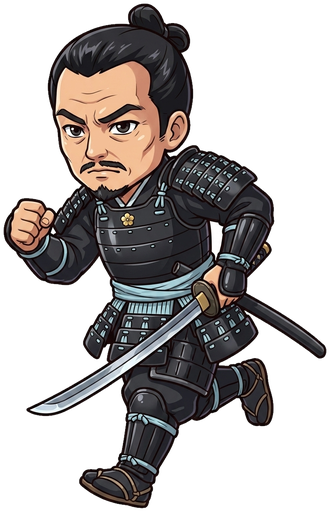
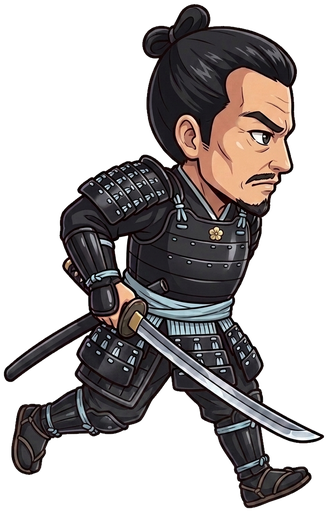
v3.1 二段ジャンプ標準化+足軽の踏みつけ討取を復活+走り/跳躍スプライトを右向きに統一(反転処理)
- タップ/スペース=二段ジャンプ、時は今で空中3段
- 足軽は上から踏めば討取(跳ね返り+空中ジャンプ復活)、横からは討死
- 全ちびスプライトを進行方向(右)向きに統一

diff --git a/honnoji/index.html b/honnoji/index.html
@@ -32,6 +32,7 @@
     align-items:flex-start;pointer-events:none;color:#E8DFC8;text-shadow:0 2px 8px rgba(0,0,0,.7)}
   #dist{font-size:clamp(22px,4.5vmin,34px);letter-spacing:.06em;font-weight:600}
   #dist span{font-size:.6em;opacity:.75;margin-left:.1em}
+  #kills{font-size:clamp(12px,2.6vmin,17px);color:#C9A227;letter-spacing:.08em;margin-top:.15em;min-height:1.2em}
   #best{font-size:clamp(12px,2.4vmin,16px);color:#C9A227;letter-spacing:.08em;opacity:.85;margin-top:.4em;text-align:right}
   #place{position:absolute;top:38%;left:0;right:0;text-align:center;
     color:rgba(232,223,200,0);font-size:clamp(24px,6vmin,42px);letter-spacing:.35em;
@@ -72,14 +73,17 @@
 <div id="wrap">
   <canvas id="c"></canvas>
   <div id="hud">
-    <div id="dist">0 <span>歩</span></div>
+    <div>
+      <div id="dist">0 <span>歩</span></div>
+      <div id="kills"></div>
+    </div>
     <div id="best">最高 0</div>
   </div>
   <div id="place">亀山、発つ</div>
   <button id="skill">時は今</button>
   <div id="overlay">
     <div id="ttl">本能寺への道</div>
-    <div id="sub">タップ / スペースで跳ぶ<br>篝火と足軽を越えて、夜を駆けよ<br>秘技「時は今」で空中三段跳び ─ 千歩先の本能寺へ</div>
+    <div id="sub">タップ / スペースで跳ぶ(二段ジャンプ)<br>篝火は跳び越え、足軽は上から踏め<br>秘技「時は今」で空中三段跳び ─ 千歩先の本能寺へ</div>
     <button id="btn" class="btn">駆け出す</button>
     <div id="actions" class="hidden">
       <a id="shareX" class="btn gold" target="_blank" rel="noopener">Xで戦果を伝える</a>
@@ -97,7 +101,8 @@
   const distEl=document.getElementById('dist'), bestEl=document.getElementById('best'),
         ttl=document.getElementById('ttl'), sub=document.getElementById('sub'),
         placeEl=document.getElementById('place'), actions=document.getElementById('actions'),
-        shareX=document.getElementById('shareX'), skillEl=document.getElementById('skill');
+        shareX=document.getElementById('shareX'), killsEl=document.getElementById('kills'),
+        skillEl=document.getElementById('skill');
   const reduce = matchMedia('(prefers-reduced-motion: reduce)').matches;
   let ctx, W=0, H=0, ground=0, dpr=1;
   const MINCHO='"Yu Mincho","Hiragino Mincho ProN",serif';
@@ -125,9 +130,11 @@
   let state='ready', dist=0, best=0, speed=0, baseSpeed=300, t=0, shake=0;
   const player={x:0,y:0,vy:0,r:20,onGround:true,legT:0};
   let obstacles=[], embers=[], mist=[], parts=[], floats=[], spawnT=0;
+  let kills=0, freezeT=0, airJumps=0;
+  const BASE_AIR=1;              // 空中ジャンプ回数(=二段ジャンプ)
   const G=2100, JUMP=-760, GOAL=1000, KESSEN=800;
   const SKILL_CD=22;
-  let skillCD=0, charges=0;
+  let skillCD=0;
   const places=['亀山、発つ','老ノ坂を越える','桂川を渡る','夜が、白む','本能寺は、目前'];
   const placeAt=[0,220,440,660,KESSEN];
   let placeIdx=-1, placeTimer=0, pressBuf=-1e9;
@@ -197,9 +204,9 @@
 
   function reset(){
     dist=0; speed=baseSpeed; t=0; shake=0; obstacles=[]; embers=[]; parts=[]; floats=[];
-    spawnT=.6; pressBuf=-1e9; skillCD=0; charges=0;
+    spawnT=.6; pressBuf=-1e9; skillCD=0; airJumps=0; kills=0; freezeT=0;
     player.x=Math.min(W*0.24,180); player.y=ground; player.vy=0; player.onGround=true; player.legT=0;
-    placeIdx=-1; placeTimer=0; placeEl.classList.remove('show');
+    placeIdx=-1; placeTimer=0; placeEl.classList.remove('show'); killsEl.textContent='';
     if(mist.length===0) for(let i=0;i<(reduce?6:16);i++)
       mist.push({x:Math.random()*W,y:H*(.35+Math.random()*.4),s:8+Math.random()*22,v:20+Math.random()*30,a:.03+Math.random()*.05});
   }
@@ -216,20 +223,21 @@
     try{ localStorage.setItem('honnoji_best',best); }catch(e){}
     bestEl.textContent='最高 '+best;
     const rk=rankOf(score);
+    const uchitori=kills>0?kills+'人を討ち取り、':'';
     let text;
     if(clear){
       ttl.textContent='敵は本能寺にあり'; ttl.style.color='#C9A227'; ttl.style.borderColor='#C9A227';
-      sub.innerHTML='千歩の夜を、駆け抜けた<br>位階「'+rk+'」';
+      sub.innerHTML='千歩の夜を、駆け抜けた'+(kills>0?' ─ 討取 '+kills:'')+'<br>位階「'+rk+'」';
       btn.textContent='もう一度駆ける';
-      text='「本能寺への道」— 千歩を駆け抜け、本能寺に到達。位階「'+rk+'」。\n是非に及ばず、とは言わせない。\n#本能寺の変 #シネマ絵巻 #本能寺への道';
+      text='「本能寺への道」— 千歩を駆け抜け、'+uchitori+'本能寺に到達。位階「'+rk+'」。\n是非に及ばず、とは言わせない。\n#本能寺の変 #シネマ絵巻 #本能寺への道';
       track('clear');
     }else{
       ttl.textContent='是非に及ばず'; ttl.style.color='#B3402A'; ttl.style.borderColor='#B3402A';
-      sub.innerHTML=score+' 歩 進んだ ─ 位階「'+rk+'」<br>'+
+      sub.innerHTML=score+' 歩 進んだ ─ 位階「'+rk+'」'+(kills>0?' ─ 討取 '+kills:'')+'<br>'+
         (newBest?'<span style="color:#C9A227">最高記録、更新</span><br>':'')+
         '本能寺まで、あと'+(GOAL-score)+'歩';
       btn.textContent='再び駆ける';
-      text='「本能寺への道」— '+score+'歩、夜を駆けて力尽きた。位階「'+rk+'」。\n本能寺まで、あと'+(GOAL-score)+'歩だった。\n#本能寺の変 #シネマ絵巻 #本能寺への道';
+      text='「本能寺への道」— '+score+'歩、'+uchitori+'夜を駆けて力尽きた。位階「'+rk+'」。\n本能寺まで、あと'+(GOAL-score)+'歩だった。\n#本能寺の変 #シネマ絵巻 #本能寺への道';
       track('over');
     }
     shareX.href='https://twitter.com/intent/tweet?text='+encodeURIComponent(text)+'&url='+encodeURIComponent(PAGE_URL);
@@ -241,10 +249,9 @@
   // ---- 入力 ----
   function jump(){
     if(state==='play'){
-      if(player.onGround){ player.vy=JUMP; player.onGround=false; sfx.jump(); }
-      else if(charges>0){ charges--; player.vy=JUMP*0.92; sfx.air();
+      if(player.onGround){ player.vy=JUMP; player.onGround=false; sfx.jump(); }  // 着地でairJumpsはBASE_AIRに補充済み
+      else if(airJumps>0){ airJumps--; player.vy=JUMP*0.92; sfx.air();
         burst(player.x,player.y,8,'#C9A227',150,2.6);
-        updateSkillBtn();
       }
       else pressBuf=t;
     }
@@ -252,8 +259,8 @@
     else start();
   }
   function useSkill(){
-    if(state!=='play'||skillCD>0||charges>0) return;
-    charges=3; skillCD=SKILL_CD;
+    if(state!=='play'||skillCD>0) return;
+    airJumps=3; skillCD=SKILL_CD;   // 空中ジャンプを3回に増強
     sfx.skill(); shake=Math.max(shake,3);
     float(W/2,H*0.30,'時は今――',Math.min(W,H)*0.075,'#C9A227',1.6,-14);
     burst(player.x,player.y-PH*0.5,18,'#7FB4D8',220,3);
@@ -261,8 +268,7 @@
     updateSkillBtn();
   }
   function updateSkillBtn(){
-    if(charges>0){ skillEl.className='armed'; skillEl.innerHTML='残 '+'◆'.repeat(charges); }
-    else if(skillCD>0){ skillEl.className='cd'; skillEl.textContent=Math.ceil(skillCD); }
+    if(skillCD>0){ skillEl.className='cd'; skillEl.textContent=Math.ceil(skillCD); }
     else{ skillEl.className='ready'; skillEl.textContent='時は今'; }
   }
   btn.addEventListener('click',e=>{e.stopPropagation();audioUnlock();start();});
@@ -277,6 +283,18 @@
     if(e.code==='Space'||e.code==='ArrowUp'){e.preventDefault();audioUnlock();jump();}
     if(e.code==='KeyX'||e.code==='Enter'){e.preventDefault();audioUnlock();useSkill();}
   });
+
+  // ---- 踏みつけ討取 ----
+  function stomp(o){
+    const ox=o.x, oy=ground-o.h;
+    o.dead=true; o.dy=0; o.da=1;
+    player.vy=-560; player.onGround=false; airJumps=BASE_AIR;  // 踏んで跳ね上がり+空中ジャンプ復活
+    kills++; killsEl.textContent='討取 '+kills;
+    freezeT=.045; shake=Math.max(shake,3); sfx.stomp();
+    burst(ox+o.w/2,oy+14,10,'#1a140e',240,3.2);
+    burst(ox+o.w/2,oy+14,5,'#B3402A',180,2.8);
+    float(ox+o.w/2,oy-24,'討取！',22,'#B3402A',.8);
+  }
 
   // ---- 生成 ----
   function spawn(){
@@ -300,6 +318,7 @@
 
   // ---- 更新 ----
   function update(dt){
+    if(freezeT>0){ freezeT-=dt; return; }   // 討取のヒットストップ
     t+=dt;
     if(skillCD>0&&state==='play'){ skillCD-=dt; if(skillCD<=0){skillCD=0;} updateSkillBtn(); }
     if(state==='play'){
@@ -317,7 +336,7 @@
         if(wasAir&&player.vy>380&&!reduce)  // 着地の土煙
           for(let i=0;i<5;i++)parts.push({x:player.x-8+Math.random()*16,y:ground-2,
             vx:-50-Math.random()*70,vy:-30-Math.random()*50,life:.3,t:0,color:'#5d554a',r:2.6});
-        player.y=ground; player.vy=0; player.onGround=true;
+        player.y=ground; player.vy=0; player.onGround=true; airJumps=BASE_AIR;
         if(t-pressBuf<=0.12){ pressBuf=-1e9; player.vy=JUMP; player.onGround=false; sfx.jump(); }
       }
       if(player.onGround) player.legT+=dt*speed*0.03;
@@ -326,17 +345,22 @@
       if(spawnT<=0){ spawn();
         spawnT = dist>=KESSEN ? .54+Math.random()*.22
                               : Math.max(.60,1.32-speed*0.0011)+Math.random()*.35; }
-      // obstacles move(篝火も敵も一定速度で流れる=跳び越え対象)
+      // obstacles move(篝火も敵も一定速度で流れる)
       for(const o of obstacles){
         o.x-=speed*dt;
         if(o.type==='b') o.fire=Math.min(1,o.fire+dt*4);
+        if(o.dead){ o.dy=(o.dy||0)+320*dt; o.da=(o.da===undefined?1:o.da)-2.4*dt; }
       }
-      obstacles=obstacles.filter(o=>o.x+o.w>-30);
-      // collision(触れたら討死)
+      obstacles=obstacles.filter(o=>o.x+o.w>-30&&(o.da===undefined||o.da>0));
+      // collision: 足軽は上から踏めば討取・横からは討死。篝火は触れたら討死
       const px=player.x-13, pw=26, py=player.y-54, ph=54;
       for(const o of obstacles){
+        if(o.dead) continue;
         const ox=o.x, oy=ground-o.h;
-        if(px<ox+o.w-3 && px+pw>ox+3 && py+ph>oy+4){ endRun(false); break; }
+        if(px<ox+o.w-3 && px+pw>ox+3 && py+ph>oy+4){
+          if(o.type==='e' && player.vy>150 && player.y<oy+26){ stomp(o); }  // 踏みつけ
+          else { endRun(false); break; }
+        }
       }
       // embers
       if(!reduce) for(const o of obstacles){
@@ -418,17 +442,19 @@
 
   function drawEnemy(o){
     const im=o.kind==='katana'?SPR.eKatana:SPR.eYari;
-    const cx=o.x+o.w/2;
+    const cx=o.x+o.w/2, fy=ground+(o.dead?(o.dy||0):0);
+    const alpha=o.dead?Math.max(0,o.da):1;
     if(imgOk(im)){
       const h=EH, w=im.naturalWidth*h/im.naturalHeight;
-      ctx.save(); ctx.translate(cx,ground);
-      ctx.rotate(Math.sin(t*9+o.x*0.02)*.055);
-      ctx.drawImage(im,-w/2,-h+Math.abs(Math.sin(t*9+o.x*0.02))*2,w,h);
-      ctx.restore();
+      ctx.save(); ctx.translate(cx,fy); ctx.globalAlpha=alpha;
+      ctx.rotate(o.dead?1.15:Math.sin(t*9+o.x*0.02)*.055);
+      ctx.drawImage(im,-w/2,-h+(o.dead?0:Math.abs(Math.sin(t*9+o.x*0.02))*2),w,h);
+      ctx.restore(); ctx.globalAlpha=1;
     }else{
-      ctx.fillStyle='#141018';
+      ctx.save(); ctx.globalAlpha=alpha; ctx.fillStyle='#141018';
       ctx.fillRect(o.x,ground-o.h,o.w,o.h);
       ctx.beginPath(); ctx.arc(cx,ground-o.h-8,9,0,7); ctx.fill();
+      ctx.restore(); ctx.globalAlpha=1;
     }
   }
 
@@ -437,7 +463,7 @@
     const im=dead?SPR.dead:(!player.onGround?SPR.jump:
       (Math.floor(player.legT/Math.PI)%2===0?SPR.runA:SPR.runB));
     // 「時は今」発動中の桔梗の残光
-    if(charges>0&&!dead){
+    if(airJumps>BASE_AIR&&!dead){
       const gl=ctx.createRadialGradient(player.x,player.y-PH*0.5,4,player.x,player.y-PH*0.5,PH*0.75);
       gl.addColorStop(0,'rgba(127,180,216,.30)'); gl.addColorStop(1,'rgba(127,180,216,0)');
       ctx.fillStyle=gl;